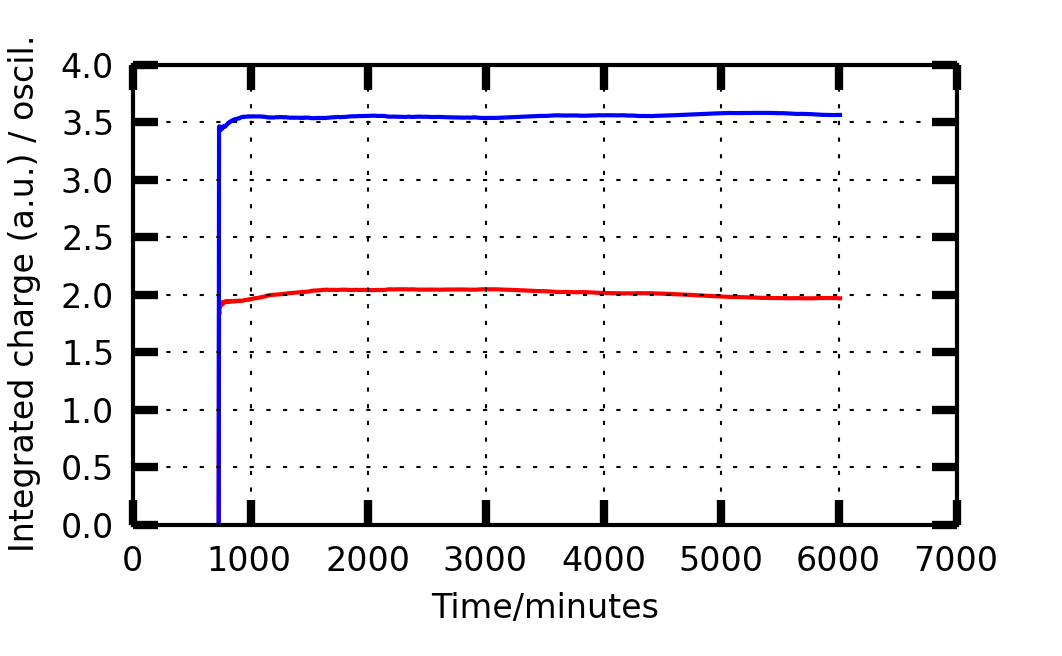
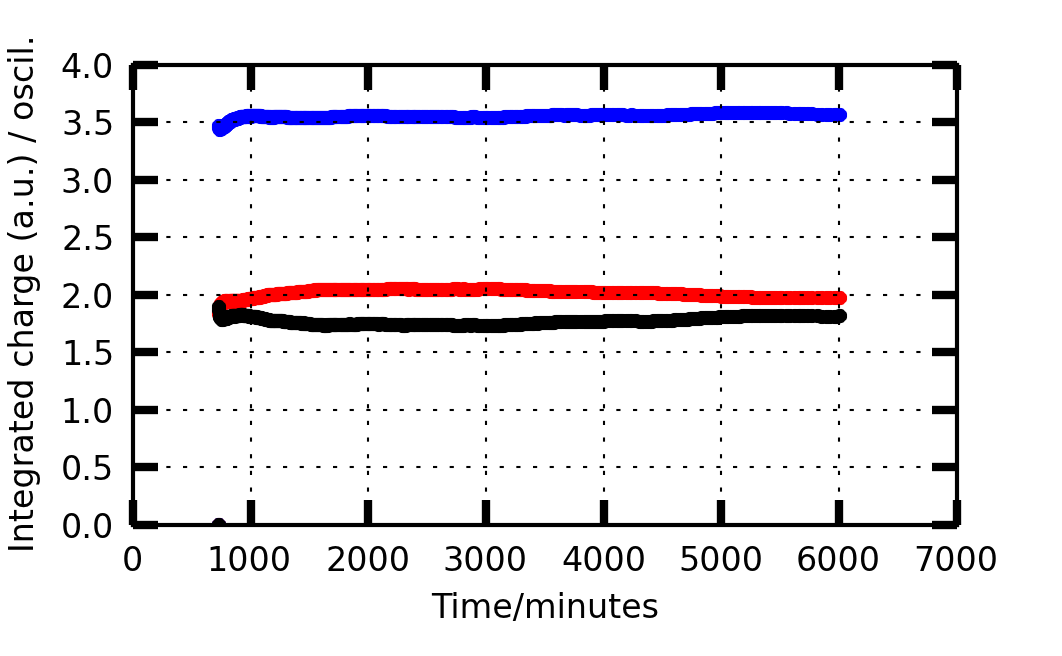
Early work on the supplemental material

Changed region(s): [[0.1864, 0.1524, 0.8079, 0.7927]]

diff --git a/python_figures/single_full_oscillation.py b/python_figures/single_full_oscillation.py
@@ -32,10 +32,10 @@ data['TEMPERATURE'] = np.array(cursor.fetchall())
 fig = plt.figure()
 fig.subplots_adjust(bottom=0.2) # Make room for x-label
 
-#ratio = 0.61803398           # Golden mean
-ratio = 0.4                  # This figure should be very wide to span two columns
+#ratio = 0.61803398             # Golden mean
+ratio = 0.4                     # This figure should be very wide to span two columns
 fig_width = 17
-fig_width = fig_width /2.54        # width in cm converted to inches
+fig_width = fig_width /2.54     # width in cm converted to inches
 fig_height = fig_width*ratio
 fig.set_size_inches(fig_width,fig_height)
 
@@ -48,12 +48,12 @@ axis2.plot(data['TEMPERATURE'][:,0], data['TEMPERATURE'][:,1], 'b-')
 axis2.set_ylim(160,205)
 axis2.set_yticks((170,180,190,200))
 axis.set_xlim(1001,1133)
-axis.grid(True)    
+axis.grid(False)    
 
 #arrow = dict(facecolor='black', shrink=0.085,width=1)
 arrow = dict(facecolor='black',arrowstyle='->')
-axis.annotate('M28', xy=(1040, 0.83),  xycoords='data', xytext=(1058, 0.93), textcoords='data', arrowprops=arrow, horizontalalignment='right', verticalalignment='center',fontsize=9,)
-axis.annotate('M44', xy=(1040, 0.41),  xycoords='data', xytext=(1058, 0.27), textcoords='data', arrowprops=arrow, horizontalalignment='right', verticalalignment='center',fontsize=9,)
+axis.annotate('M28', xy=(1040, 0.82),  xycoords='data', xytext=(1055, 0.85), textcoords='data', arrowprops=arrow, horizontalalignment='right', verticalalignment='center',fontsize=9,)
+axis.annotate('M44', xy=(1040, 0.5),  xycoords='data', xytext=(1050, 0.65), textcoords='data', arrowprops=arrow, horizontalalignment='right', verticalalignment='center',fontsize=9,)
 axis.annotate('Temp.', xy=(1070, 1.08),  xycoords='data', xytext=(1095, 0.93), textcoords='data', arrowprops=arrow, horizontalalignment='right', verticalalignment='center',fontsize=9,)
 
 axis.tick_params(direction='in', length=6, width=1, colors='k',labelsize=8,axis='both',pad=3)
@@ -64,31 +64,42 @@ axis2.set_ylabel('Temperature / $^\circ$C', fontsize=8)
 axis.set_xlabel('Time/minutes', fontsize=8)
 
 
+positions = []
+positions.append([.18, .25, .15, .15])
+positions.append([.29, .25, .15, .15])
+positions.append([.39, .25, .15, .15])
+positions.append([.5, .25, .15, .15])
+positions.append([.6, .25, .15, .15])
+positions.append([.69, .25, .15, .15])
 
-a = plt.axes([.18, .65, .3, .25], axisbg='w',polar=True)
+oxide = []
+oxide.append([0.001,3.14])
+oxide.append([1,0])
+oxide.append([0.7,0.5])
+oxide.append([0.5,1])
+oxide.append([0.2,1.5])
+oxide.append([0.001,3.14])
+
 N = 500
 R = np.random.rand(N)
 Theta = np.random.rand(N)*2*np.pi
-area = 1
+area = 0.8
+colors = np.zeros((N,len(positions)))
 
-colors = np.zeros(N)
+j = 0
+for pos in positions:
+    a = plt.axes(pos, axisbg='w',polar=True)
+    print oxide[j][0]
+    for i in range(0,N):
+        if (R[i]>oxide[j][0]) and ((Theta[i] < oxide[j][1]) or (Theta[i] > 2*np.pi - oxide[j][1])):
+            colors[i][j] = 1
+            
+    c = plt.scatter(Theta, R, c=colors[:,j], s=area, linewidths=0)
+    c.set_alpha(0.75)
+    plt.setp(a, xticks=[], yticks=[])
+    j = j + 1
 
-for i in range(0,N):
-    if (R[i]>0.7) and (Theta[i] < 1):
-        colors[i] = 1
-    
-#ax = plt.subplot(111, polar=True)
 
-c = plt.scatter(Theta, R, c=colors, s=area, linewidths=0)
-
-c.set_alpha(0.75)
-
-
-#ax.tick_params(direction='in', length=3, width=1, colors='k',labelsize=6,axis='both',pad=3)
-#plt.setp(ax, xticks=[], yticks=[])
-
-plt.setp(a, xticks=[], yticks=[])
-#plt.setp(a, xlim=(700,1500), ylim=(2,8),xticks=[900,1100,1300], yticks=[3,5,7])
 
 #plt.tight_layout()
 plt.show()

diff --git a/supplementary.tex b/supplementary.tex
@@ -100,4 +100,42 @@ The gas handling including flow and pressured controllers and the mass spectrome
 \subsection{Pt nanoparticle deposition}
 Pt nanoparticles were deposited in the reactor using a gas-aggregation source (Mantis Deposition Ltd., Nanogen 50). Pt clusters were formed by gas-phase condensation of Pt atoms produced by impinging argon ions on a 99.99\% Pt target in a magnetron sputter source. After condensation the ionised fraction (60-80\%) of the clusters were size-selected by a quadropole mass selection filter according to their mass-to-charge ratio. Using this setup Pt nanoparticles with diameters in the range of 2--16\,nm can be produced \cite{Nielsen2010,Nielsen2009}. The size-selected nanoparticles were after size-selection soft-landed in the reactor volume of the microreactor. The coverage was kept at approximately 0.1\% geometric coverage determined by measuring the current on the reactor during deposition. After deposition the reactors were anodicly cold-bonded \cite{Vesborg2010} to a pyrex lid to avoid sintering of the nanoparticles while bonding.
 
+
+\begin{figure}[h]
+\centering
+  \includegraphics[width=13cm]{oscillations_gas_dependence_supplemental.png}
+  \caption{Complete series of oscillating sample. For every frame the CO-concentration is increased.}
+  \label{fgr:gas_dependence}
+\end{figure}
+
+
+\begin{figure}[h]
+  \centering
+  \includegraphics[width=9cm]{oscillations_gas_dependence_summary_supplemental.png}
+  \caption{Summary of the gas-dependence. The overall trend of increasing oscillation period is now supporimposed by small discontinous stpes when the CO concentration is increased.}
+  \label{fgr:gas_dependence_summary}
+\end{figure}
+
+\begin{figure}[h]
+\centering
+  \includegraphics[width=9cm]{temperature_dependence_supplemental.png}
+  \caption{Another example of the very pronounced temperature dependence. In this case the oscillations are switched on and off by a step of 20$^\circ$C}
+  \label{fgr:temperature_dependence_supplemental}
+\end{figure}
+
+
+\begin{figure}[h]
+\centering
+  \includegraphics[width=9cm]{duty_cycles_long_measurement_supplemental.png}
+  \caption{A plot of the duty-cycle of the sample duing the 4-day long experiment}
+  \label{fgr:temperature_dependence_supplemental}
+\end{figure}
+
+
+
+\footnotesize{
+\bibliography{literature} %your .bib file
+\bibliographystyle{rsc} %the RSC's .bst file
+}
+
 \end{document}

diff --git a/python_figures/duty_cycles_long_measurement.py b/python_figures/duty_cycles_long_measurement.py
@@ -57,11 +57,16 @@ m44_average = []
 m44_average.append(0)
 m28_average = []
 m28_average.append(0)
+eff = []
+eff.append(0)
 for i in range(1,len(oscillations)):
     periods.append(oscillations[i]-oscillations[i-1])
     
-    m44_average.append(average(data['M44'][mass_indexes[i-i]:mass_indexes[i],1]))
-    m28_average.append(average(data['M28'][mass_indexes[i-i]:mass_indexes[i],1]))
+    m44_av = average(data['M44'][mass_indexes[i-i]:mass_indexes[i],1])
+    m44_average.append(m44_av)
+    m28_av = average(data['M28'][mass_indexes[i-i]:mass_indexes[i],1])
+    m28_average.append(m28_av)
+    eff.append(m44_av/m28_av)
 
 #print len(periods)
 
@@ -74,8 +79,9 @@ fig_height = fig_width*ratio
 fig.set_size_inches(fig_width,fig_height)
 
 axis = fig.add_subplot(1,1,1)
-axis.plot(oscillations, m28_average, 'r-')
-axis.plot(oscillations, m44_average, 'b-')
+axis.plot(oscillations, m28_average, 'r.')
+axis.plot(oscillations, m44_average, 'b.')
+axis.plot(oscillations, eff, 'k.')
 #axis.plot(data['M28'][:,0], data['M28'][:,1], 'r-')
 #axis.plot(data['M44'][:,0], data['M44'][:,1], 'b-')
 #axis.set_ylim(0,7)
@@ -91,5 +97,5 @@ axis.set_xlabel('Time/minutes', fontsize=8)
 
 
 #plt.tight_layout()
-plt.show()
+#plt.show()
 plt.savefig('../duty_cycles_long_measurement_supplemental.png',dpi=300)

diff --git a/python_figures/oscillations_gas_dependence_summary.py b/python_figures/oscillations_gas_dependence_summary.py
@@ -104,7 +104,7 @@ axis.set_xlabel('Time/minutes', fontsize=8)
 
 #plt.tight_layout()
 plt.show()
-plt.savefig('../oscillations_gas_dependence_supplemental.png',dpi=300)
+plt.savefig('../oscillations_gas_dependence_summary_supplemental.png',dpi=300)
 
 
 
